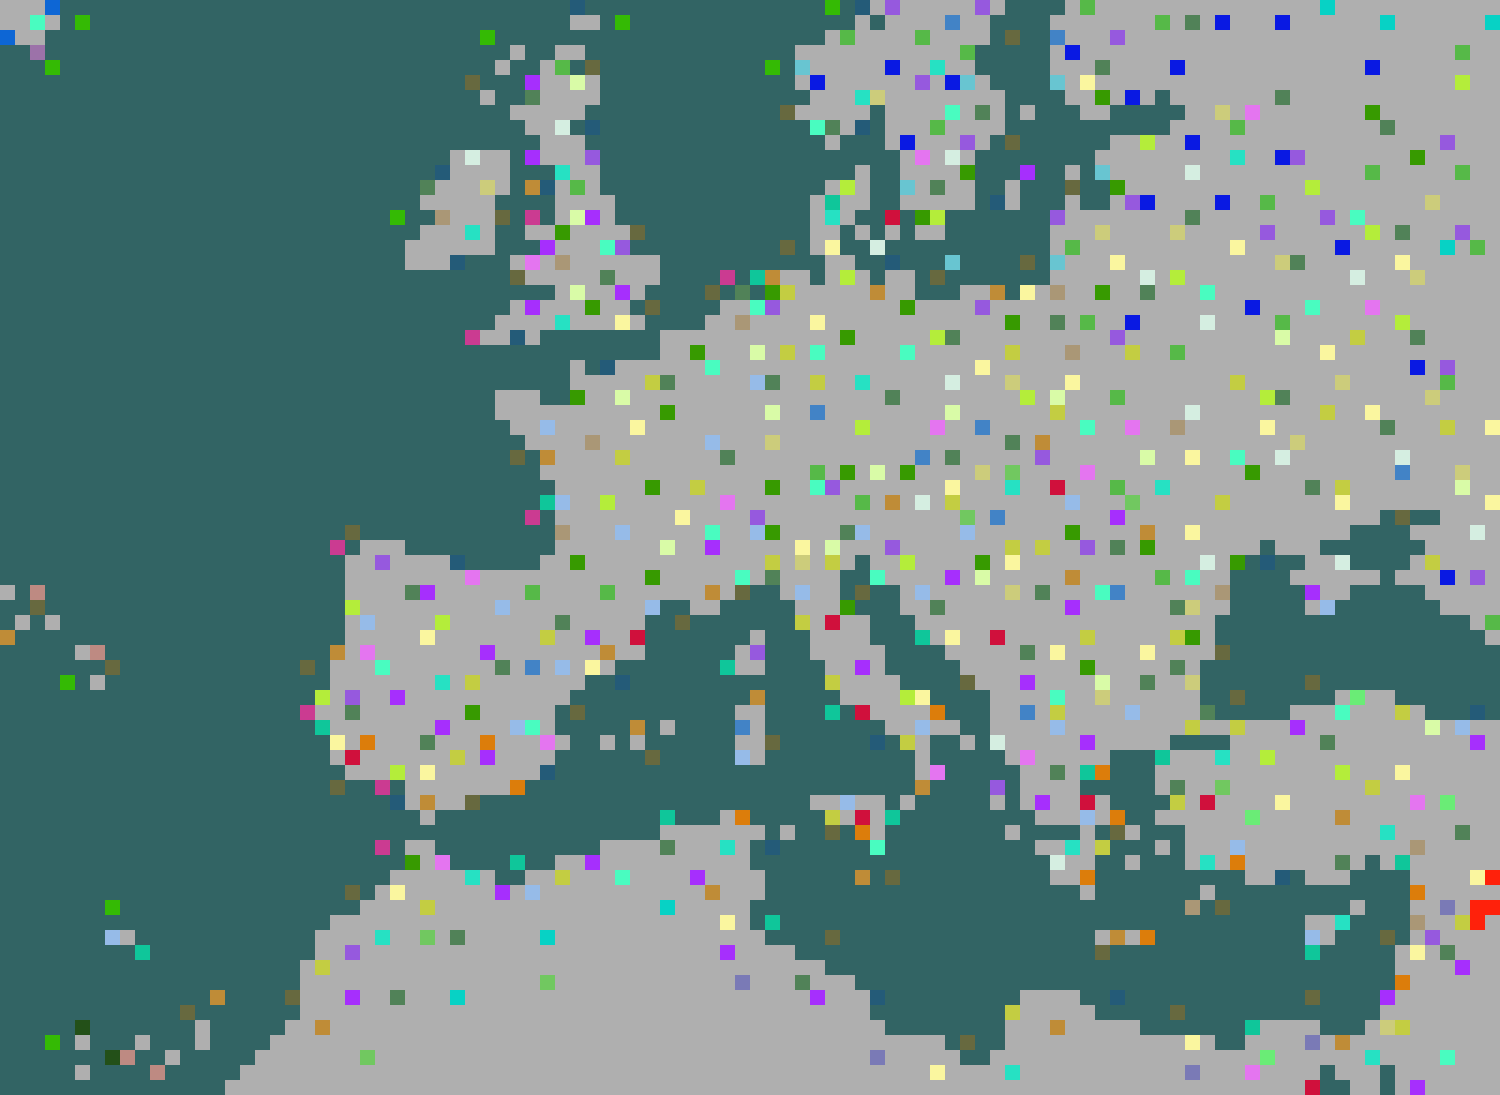
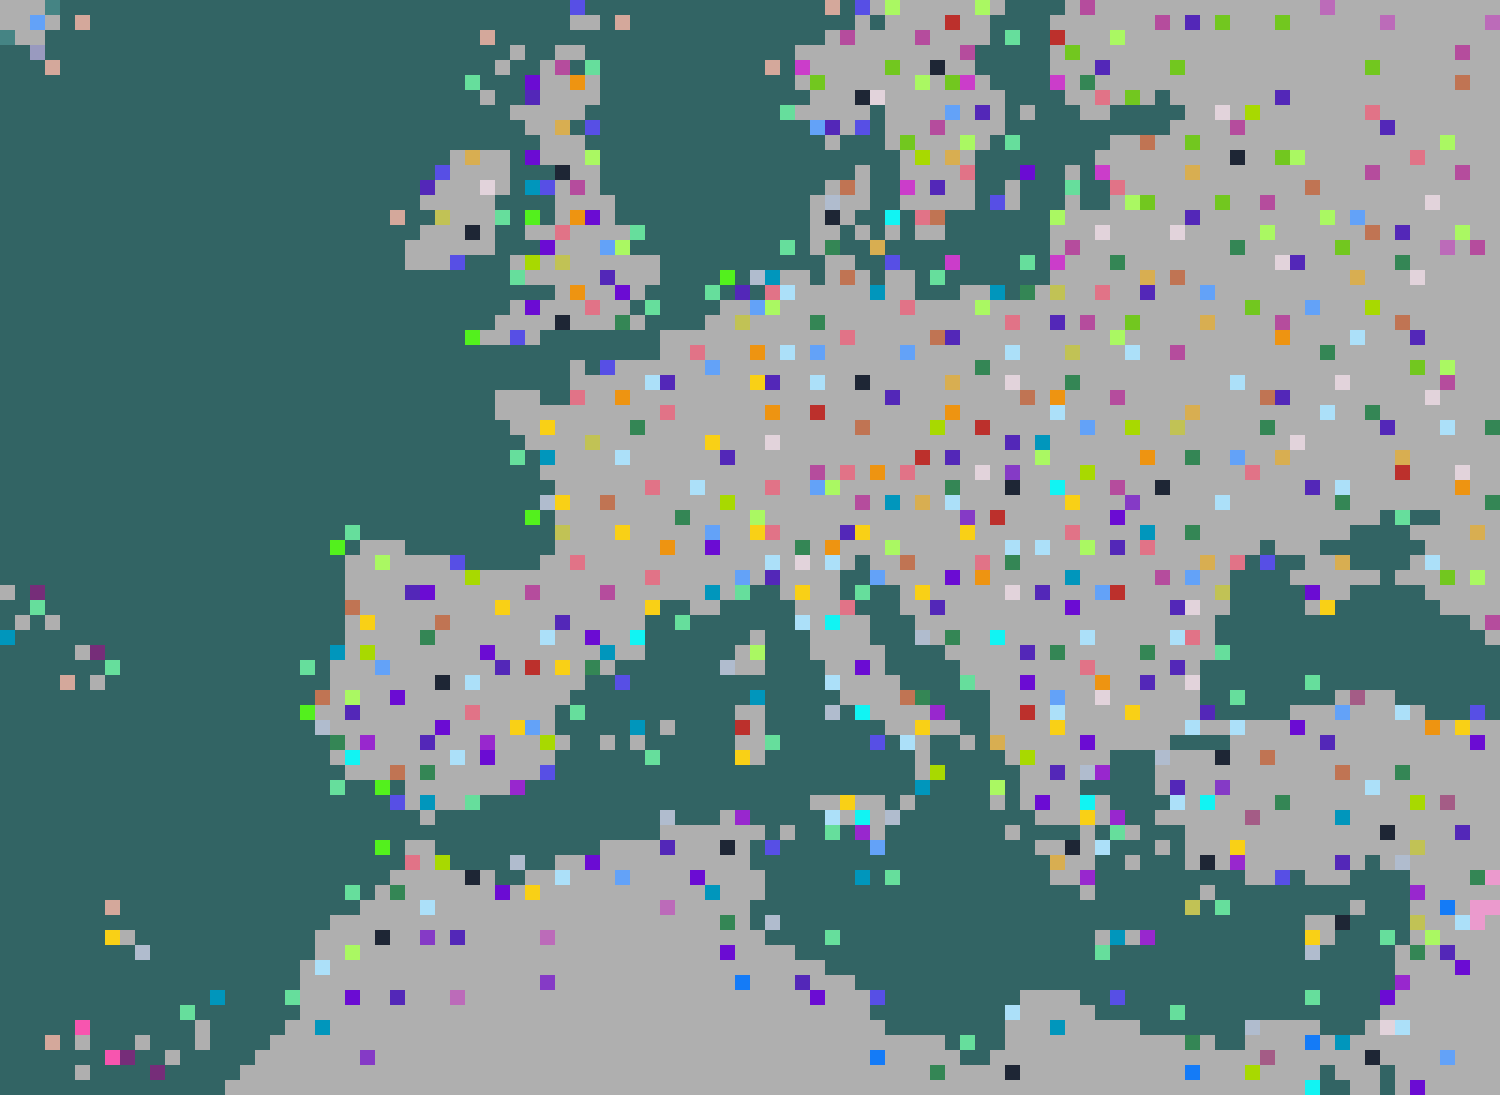
Fix script for map renderer

diff --git a/Docs/Tools/map_renderer.py b/Docs/Tools/map_renderer.py
@@ -8,9 +8,10 @@ from pathlib import Path
 from random import randint
 
 from PIL import Image, ImageOps
+from Consts import MINOR_CIVS
 from CoreData import civilizations
 
-from LocationsData import CIV_CORE_AREA, CIV_BROADER_AREA, CIV_NORMAL_AREA
+from LocationsData import CIV_CORE_AREA, CIV_BROADER_AREA, CIV_NORMAL_AREA, CIV_PROVINCES
 from CoreTypes import Civ, Province, ProvinceType
 from ProvinceMapData import PROVINCES_MAP
 
@@ -266,32 +267,33 @@ class MapRenderer:
             self.save_drawing(img, output_path + "/provinces", f"{province.name}")
 
     def draw_provinces_stability_map(self, output_path: str):
-        for civ in civilizations().main():
-            img = self.base_img.copy()
-            img = self.draw(
-                img,
-                self.extract_provinces(civ.location.provinces[ProvinceType.CORE]),
-                PROVINCES_COLORS["core"],
-            )
-            img = self.draw(
-                img,
-                self.extract_provinces(civ.location.provinces[ProvinceType.HISTORICAL]),
-                PROVINCES_COLORS["historical"],
-            )
-            img = self.draw(
-                img,
-                self.extract_provinces(civ.location.provinces[ProvinceType.POTENTIAL]),
-                PROVINCES_COLORS["potential"],
-            )
-            img = self.draw(
-                img,
-                self.extract_provinces(civ.location.provinces[ProvinceType.CONTESTED]),
-                PROVINCES_COLORS["contested"],
-            )
-            img = self.apply_water(img)
-            img = self.draw_plot_properties(img, "is_peak")
-            img = self.upscale_map(img)
-            self.save_drawing(img, output_path + "/provinces_stability", f"{civ.key.name}")
+        for civ in civilizations():
+            if civ.id not in MINOR_CIVS + [Civ.POPE.value]:
+                img = self.base_img.copy()
+                img = self.draw(
+                    img,
+                    self.extract_provinces(CIV_PROVINCES[civ.key][ProvinceType.CORE]),
+                    PROVINCES_COLORS["core"],
+                )
+                img = self.draw(
+                    img,
+                    self.extract_provinces(CIV_PROVINCES[civ.key][ProvinceType.HISTORICAL]),
+                    PROVINCES_COLORS["historical"],
+                )
+                img = self.draw(
+                    img,
+                    self.extract_provinces(CIV_PROVINCES[civ.key][ProvinceType.POTENTIAL]),
+                    PROVINCES_COLORS["potential"],
+                )
+                img = self.draw(
+                    img,
+                    self.extract_provinces(CIV_PROVINCES[civ.key][ProvinceType.CONTESTED]),
+                    PROVINCES_COLORS["contested"],
+                )
+                img = self.apply_water(img)
+                img = self.draw_plot_properties(img, "is_peak")
+                img = self.upscale_map(img)
+                self.save_drawing(img, output_path + "/provinces_stability", f"{civ.key.name}")
 
     def normalize_plot(self, plots):
         _plots = []

diff --git a/Docs/README.md b/Docs/README.md
@@ -23,9 +23,9 @@ This script need at least Python >= 3.9 and the dependency `Pillow`.
 
 Exemple of usage:
 
-```python
-pip install Pillow
-python Docs/Tools/map_renderer.py -f ./PrivateMaps/RFCEurope\ 1200AD.CivBeyondSwordWBSave -d Docs/Maps
+```shell
+pip install -r requirements-dev.txt
+python Docs/Tools/map_renderer.py -f ./PrivateMaps/RFCEurope\ 1200AD.CivBeyondSwordWBSave -d Docs/Maps --all
 ```
 
 Here the full help message of the script.
